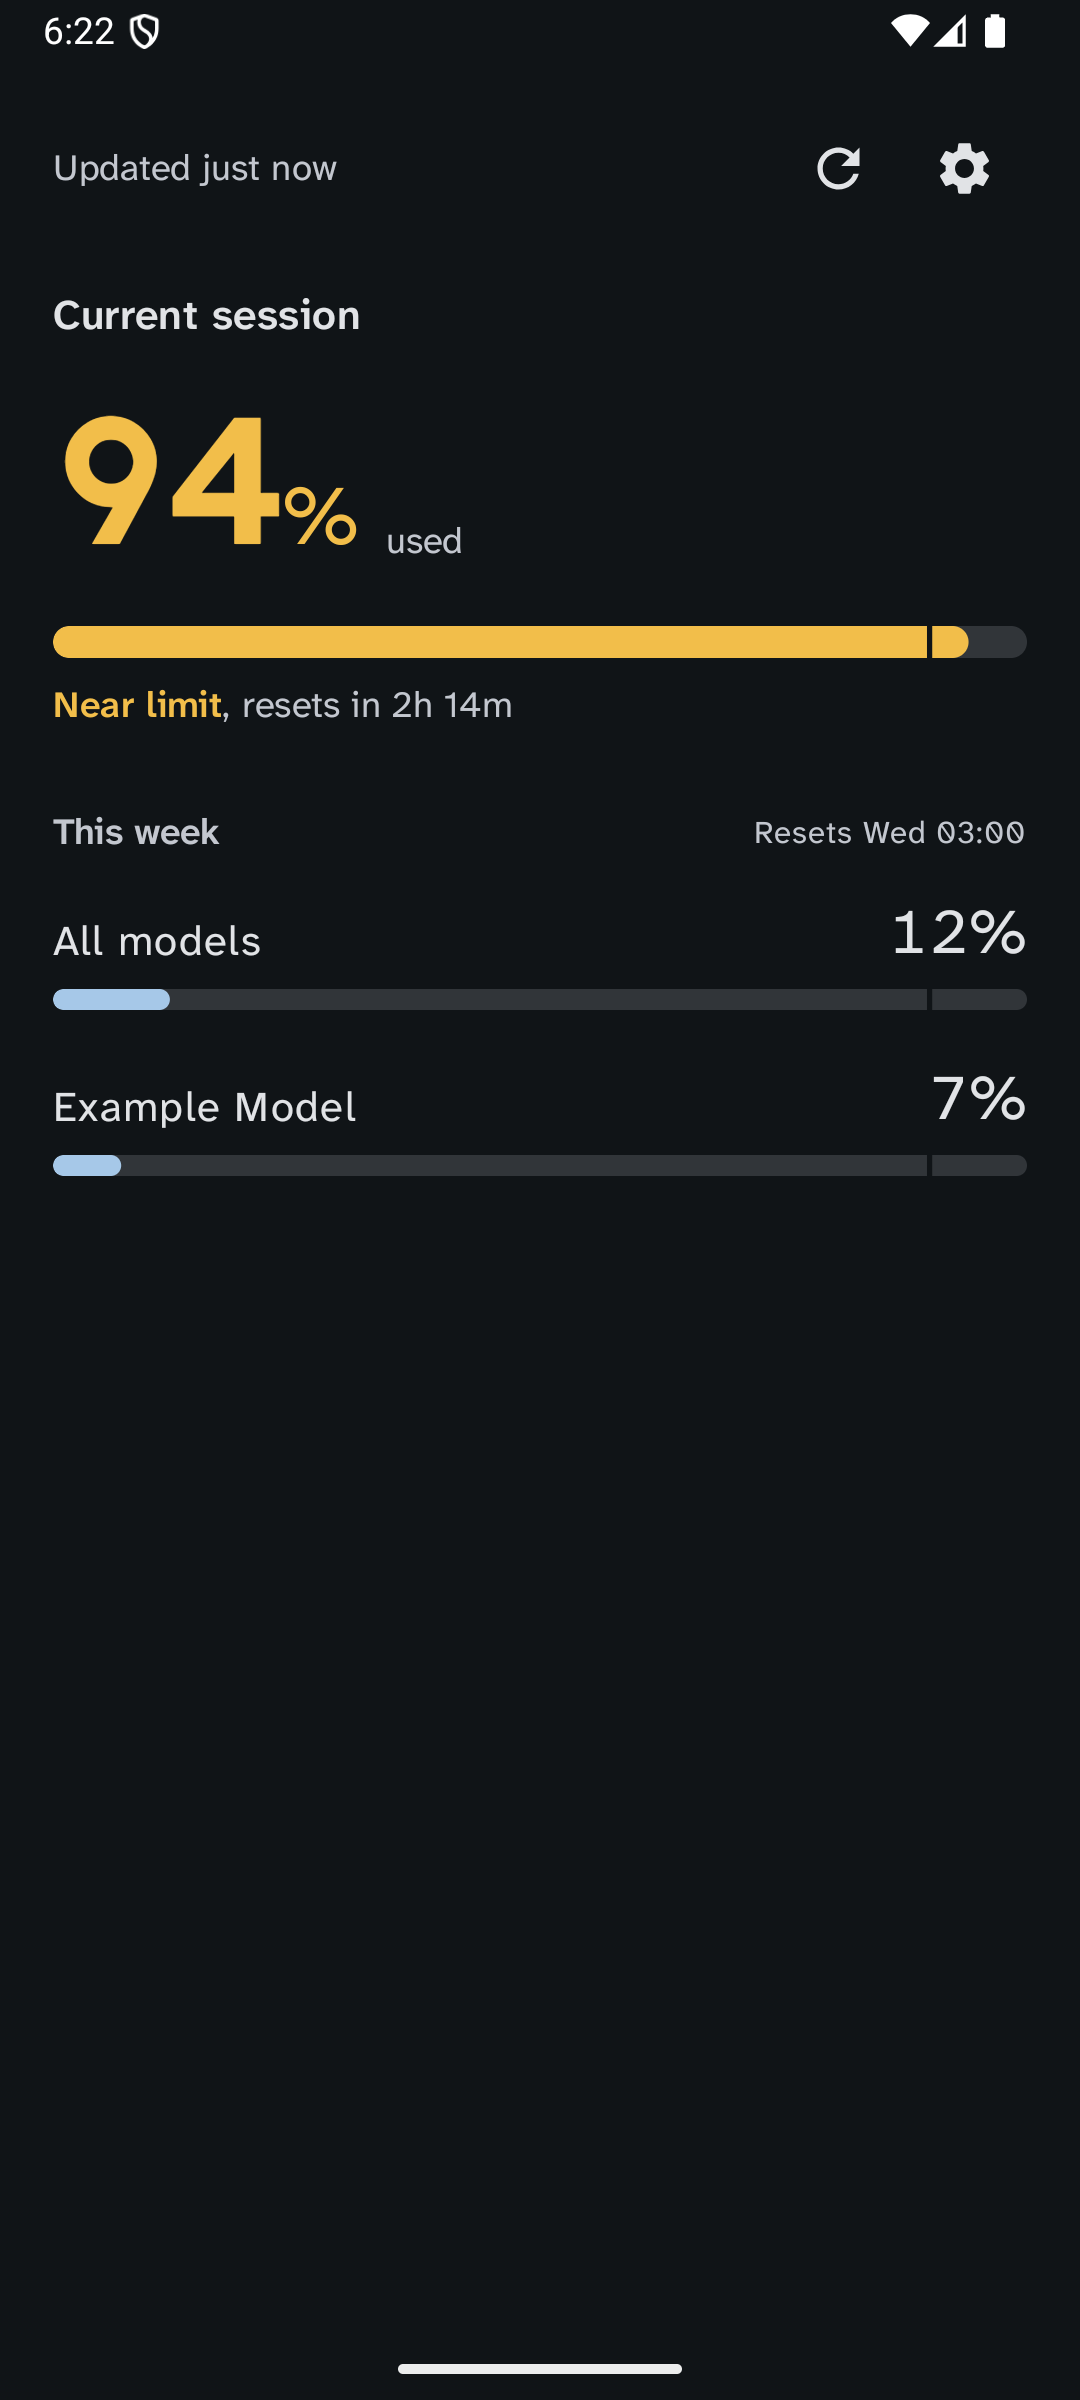
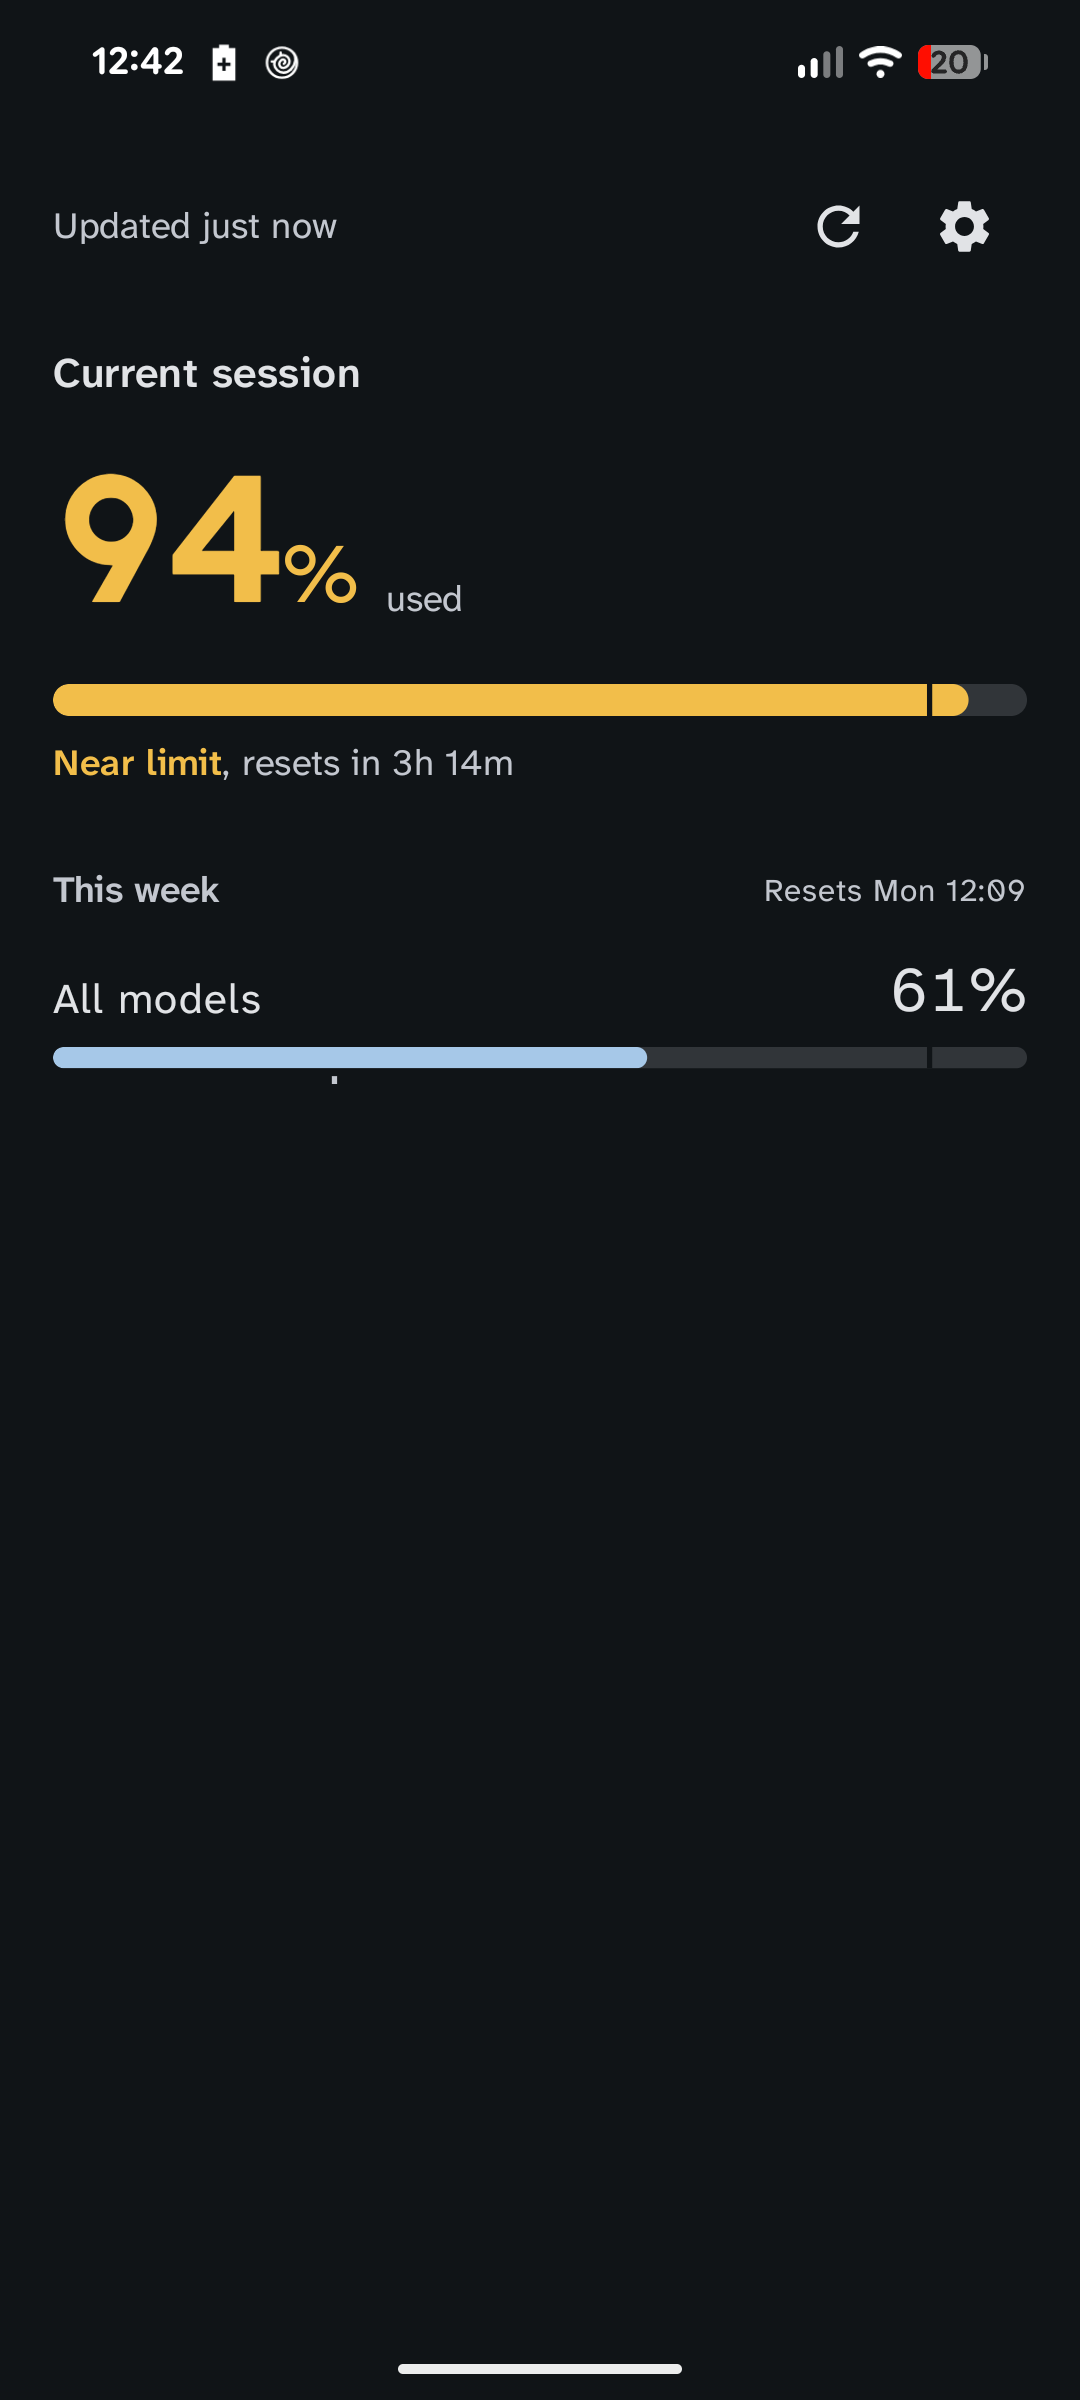
Retake the screenshots without the per-model bar
The three README images still showed a per-model weekly window, which no
longer exists: the enrichment fetch that produced it was removed, so the
headline pictures were advertising a feature the tool does not have.

Captured from the app running the current build against a real relay, so
they also show the pace mark under the weekly bar. relink.png is the
pairing screen and is unaffected.

diff --git a/README.md b/README.md
@@ -22,7 +22,7 @@ last reading. Your phone reads it from there.
 
 <div align="center">
 
-<img src="docs/screenshots/usage.png" width="30%" alt="Session at 23%, week at 12%, a per-model window at 7%">
+<img src="docs/screenshots/usage.png" width="30%" alt="Session at 23%, week at 12%, with a pace mark under the weekly bar">
 <img src="docs/screenshots/approaching.png" width="30%" alt="Session at 94%, past the warning notch, marked Near limit">
 <img src="docs/screenshots/wall.png" width="30%" alt="Session at 100%, track hatched edge to edge, Limit reached">
 
